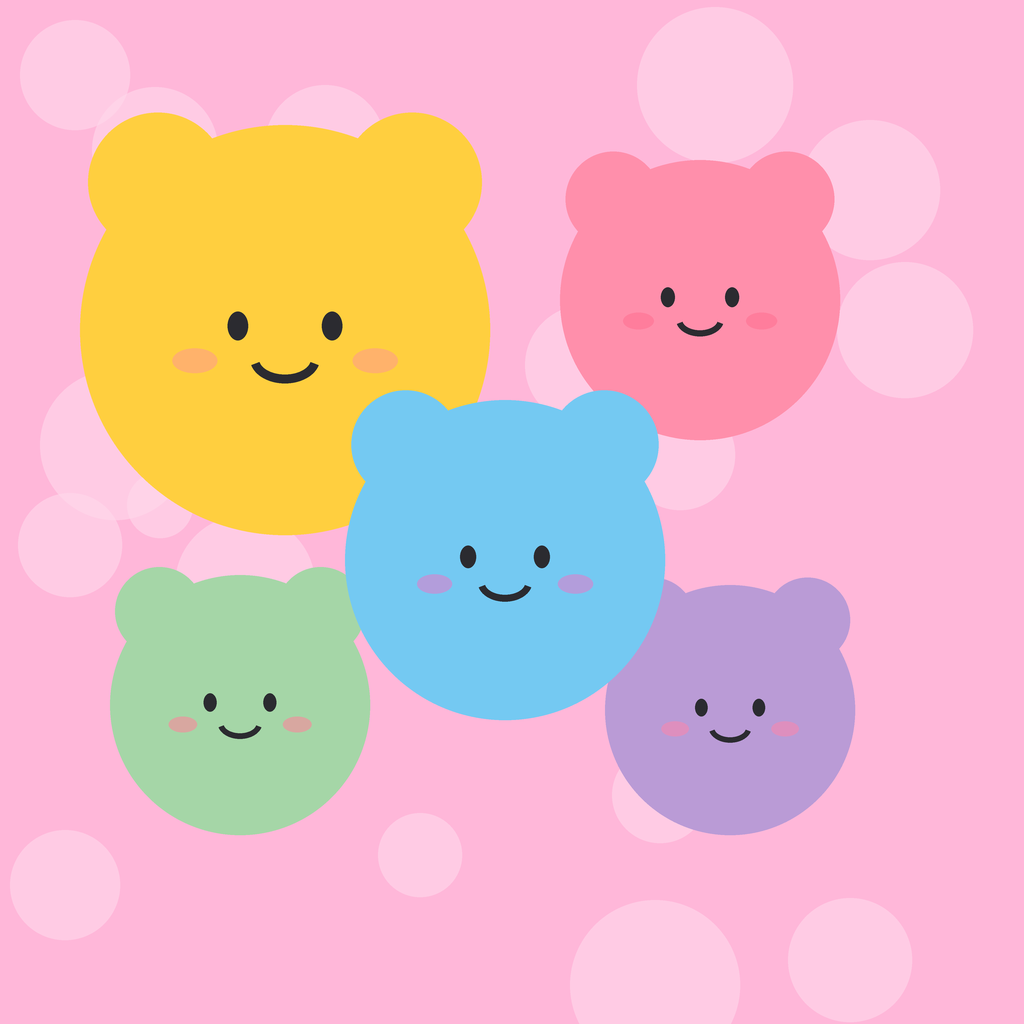
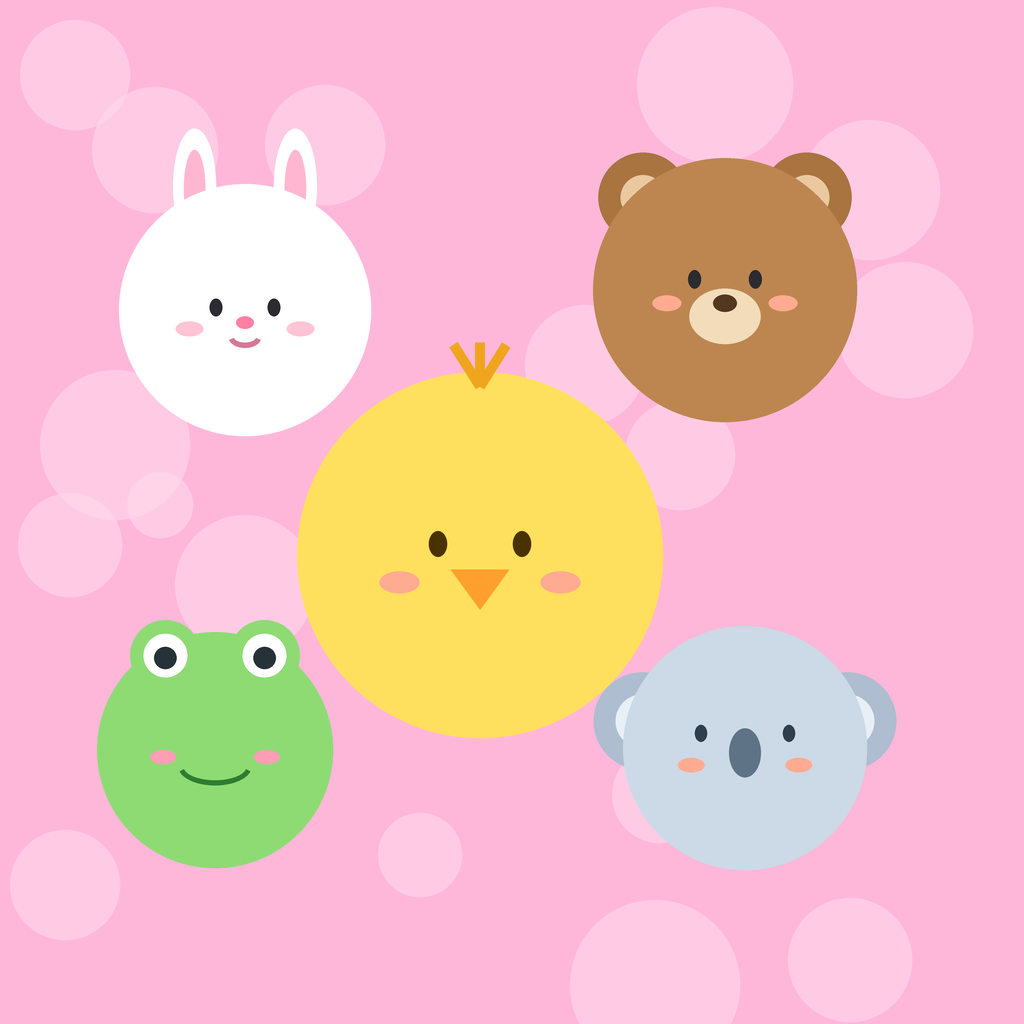
Add moco Pi investigation report (HTML + download files)

diff --git a/index.html b/index.html
@@ -131,7 +131,7 @@
 </head>
 <body>
 <div class="screen on" id="titleScreen">
-  <img class="icon" src="app-icon-1024.png?v=10" alt="">
+  <img class="icon" src="app-icon-1024.png?v=14" alt="">
   <h1>つむP</h1>
   <p class="sub">なぞってつなげて消すパズル</p>
   <div class="panel">
@@ -190,7 +190,7 @@
 <button id="bgmBtn" title="BGM">🎵</button>
 <div id="verTag"></div>
 <script>
-  document.getElementById('verTag').textContent = 'Tsum v13';
+  document.getElementById('verTag').textContent = 'Tsum v14';
   // ---------------- player identity (browser build: local id) ----------------
   let PLAYER = null;
   try {
@@ -375,11 +375,11 @@
   const COLS = 9, ROWS = 11, GAME_SEC = 60;
   const BOMB = 5, FEVER_NEED = 25, FEVER_MS = 10000, BOMB_CHAIN = 7;
   const TYPES = [
-    { c: ['#fff3b0', '#ffd93b'], svg: '<svg viewBox="0 0 100 100"><circle cx="27" cy="27" r="11" fill="#ffd93b"/><circle cx="73" cy="27" r="11" fill="#ffd93b"/><circle cx="50" cy="58" r="32" fill="#ffd93b"/><circle cx="38" cy="54" r="3.6" fill="#33302e"/><circle cx="62" cy="54" r="3.6" fill="#33302e"/><circle cx="39.3" cy="52.7" r="1.3" fill="#ffffff"/><circle cx="63.3" cy="52.7" r="1.3" fill="#ffffff"/><path d="M43 64 Q50 70 57 64" stroke="#33302e" stroke-width="2.4" fill="none" stroke-linecap="round"/><ellipse cx="28" cy="63" rx="6" ry="3.6" fill="#ff8fab" opacity=".65"/><ellipse cx="72" cy="63" rx="6" ry="3.6" fill="#ff8fab" opacity=".65"/></svg>' },
-    { c: ['#ffe3ee', '#ff9ec4'], svg: '<svg viewBox="0 0 100 100"><circle cx="27" cy="27" r="11" fill="#ff9ec4"/><circle cx="73" cy="27" r="11" fill="#ff9ec4"/><circle cx="50" cy="58" r="32" fill="#ff9ec4"/><circle cx="38" cy="54" r="3.6" fill="#33302e"/><circle cx="62" cy="54" r="3.6" fill="#33302e"/><circle cx="39.3" cy="52.7" r="1.3" fill="#ffffff"/><circle cx="63.3" cy="52.7" r="1.3" fill="#ffffff"/><path d="M43 64 Q50 70 57 64" stroke="#33302e" stroke-width="2.4" fill="none" stroke-linecap="round"/><ellipse cx="28" cy="63" rx="6" ry="3.6" fill="#ff8fab" opacity=".65"/><ellipse cx="72" cy="63" rx="6" ry="3.6" fill="#ff8fab" opacity=".65"/></svg>' },
-    { c: ['#dcefff', '#6ec3f5'], svg: '<svg viewBox="0 0 100 100"><circle cx="27" cy="27" r="11" fill="#6ec3f5"/><circle cx="73" cy="27" r="11" fill="#6ec3f5"/><circle cx="50" cy="58" r="32" fill="#6ec3f5"/><circle cx="38" cy="54" r="3.6" fill="#33302e"/><circle cx="62" cy="54" r="3.6" fill="#33302e"/><circle cx="39.3" cy="52.7" r="1.3" fill="#ffffff"/><circle cx="63.3" cy="52.7" r="1.3" fill="#ffffff"/><path d="M43 64 Q50 70 57 64" stroke="#33302e" stroke-width="2.4" fill="none" stroke-linecap="round"/><ellipse cx="28" cy="63" rx="6" ry="3.6" fill="#ff8fab" opacity=".65"/><ellipse cx="72" cy="63" rx="6" ry="3.6" fill="#ff8fab" opacity=".65"/></svg>' },
-    { c: ['#e6f9dc', '#8edb74'], svg: '<svg viewBox="0 0 100 100"><circle cx="27" cy="27" r="11" fill="#8edb74"/><circle cx="73" cy="27" r="11" fill="#8edb74"/><circle cx="50" cy="58" r="32" fill="#8edb74"/><circle cx="38" cy="54" r="3.6" fill="#33302e"/><circle cx="62" cy="54" r="3.6" fill="#33302e"/><circle cx="39.3" cy="52.7" r="1.3" fill="#ffffff"/><circle cx="63.3" cy="52.7" r="1.3" fill="#ffffff"/><path d="M43 64 Q50 70 57 64" stroke="#33302e" stroke-width="2.4" fill="none" stroke-linecap="round"/><ellipse cx="28" cy="63" rx="6" ry="3.6" fill="#ff8fab" opacity=".65"/><ellipse cx="72" cy="63" rx="6" ry="3.6" fill="#ff8fab" opacity=".65"/></svg>' },
-    { c: ['#eee7fd', '#b79ced'], svg: '<svg viewBox="0 0 100 100"><circle cx="27" cy="27" r="11" fill="#b79ced"/><circle cx="73" cy="27" r="11" fill="#b79ced"/><circle cx="50" cy="58" r="32" fill="#b79ced"/><circle cx="38" cy="54" r="3.6" fill="#33302e"/><circle cx="62" cy="54" r="3.6" fill="#33302e"/><circle cx="39.3" cy="52.7" r="1.3" fill="#ffffff"/><circle cx="63.3" cy="52.7" r="1.3" fill="#ffffff"/><path d="M43 64 Q50 70 57 64" stroke="#33302e" stroke-width="2.4" fill="none" stroke-linecap="round"/><ellipse cx="28" cy="63" rx="6" ry="3.6" fill="#ff8fab" opacity=".65"/><ellipse cx="72" cy="63" rx="6" ry="3.6" fill="#ff8fab" opacity=".65"/></svg>' },
+    { c: ['#ffe3ee', '#ff9ec4'], svg: '<svg viewBox="0 0 100 100"><ellipse cx="31" cy="20" rx="9" ry="19" fill="#ffffff" transform="rotate(-11 31 20)"/><ellipse cx="69" cy="20" rx="9" ry="19" fill="#ffffff" transform="rotate(11 69 20)"/><ellipse cx="31" cy="22" rx="4.4" ry="12" fill="#ffb7d1" transform="rotate(-11 31 22)"/><ellipse cx="69" cy="22" rx="4.4" ry="12" fill="#ffb7d1" transform="rotate(11 69 22)"/><circle cx="50" cy="63" r="29" fill="#ffffff"/><circle cx="39" cy="59" r="3.4" fill="#3a2b33"/><circle cx="61" cy="59" r="3.4" fill="#3a2b33"/><circle cx="40.2" cy="57.8" r="1.2" fill="#ffffff"/><circle cx="62.2" cy="57.8" r="1.2" fill="#ffffff"/><ellipse cx="50" cy="66" rx="4" ry="2.8" fill="#ff7fa5"/><path d="M50 69 q-1 4 -6 4 M50 69 q1 4 6 4" stroke="#d77a97" stroke-width="1.8" fill="none" stroke-linecap="round"/><ellipse cx="30" cy="68" rx="5.6" ry="3.4" fill="#ffc4d6" opacity=".8"/><ellipse cx="70" cy="68" rx="5.6" ry="3.4" fill="#ffc4d6" opacity=".8"/></svg>' },
+    { c: ['#ffedbe', '#ffc94d'], svg: '<svg viewBox="0 0 100 100"><circle cx="25" cy="28" r="11" fill="#a9743f"/><circle cx="75" cy="28" r="11" fill="#a9743f"/><circle cx="25" cy="28" r="5.4" fill="#eac9a0"/><circle cx="75" cy="28" r="5.4" fill="#eac9a0"/><circle cx="50" cy="57" r="32" fill="#bd8650"/><circle cx="38" cy="53" r="3.4" fill="#33241a"/><circle cx="62" cy="53" r="3.4" fill="#33241a"/><circle cx="39.2" cy="51.8" r="1.2" fill="#ffffff"/><circle cx="63.2" cy="51.8" r="1.2" fill="#ffffff"/><ellipse cx="50" cy="67" rx="13" ry="10" fill="#f2dcba"/><ellipse cx="50" cy="62" rx="5.2" ry="3.8" fill="#54371f"/><path d="M50 66 v3 M50 69 q-4 4 -8 2 M50 69 q4 4 8 2" stroke="#54371f" stroke-width="2" fill="none" stroke-linecap="round"/><ellipse cx="29" cy="64" rx="5.6" ry="3.4" fill="#ffab91" opacity=".7"/><ellipse cx="71" cy="64" rx="5.6" ry="3.4" fill="#ffab91" opacity=".7"/></svg>' },
+    { c: ['#dcf7c9', '#8edb74'], svg: '<svg viewBox="0 0 100 100"><circle cx="50" cy="58" r="32" fill="#8edb74"/><circle cx="29" cy="33" r="10.5" fill="#8edb74"/><circle cx="71" cy="33" r="10.5" fill="#8edb74"/><circle cx="29" cy="33" r="6.8" fill="#ffffff"/><circle cx="71" cy="33" r="6.8" fill="#ffffff"/><circle cx="29" cy="34" r="3.4" fill="#263238"/><circle cx="71" cy="34" r="3.4" fill="#263238"/><path d="M31 63 Q50 76 69 63" stroke="#2e7d32" stroke-width="2.6" fill="none" stroke-linecap="round"/><ellipse cx="28" cy="62" rx="6" ry="3.6" fill="#ff9eb5" opacity=".8"/><ellipse cx="72" cy="62" rx="6" ry="3.6" fill="#ff9eb5" opacity=".8"/></svg>' },
+    { c: ['#fff6bf', '#ffd43b'], svg: '<svg viewBox="0 0 100 100"><circle cx="50" cy="58" r="31" fill="#ffdf5e"/><path d="M50 28 q-4 -9 -11 -10 M50 28 q0 -10 5 -13 M50 28 q5 -8 11 -9" stroke="#f0a51f" stroke-width="3.4" fill="none" stroke-linecap="round"/><circle cx="38" cy="54" r="3.6" fill="#4a3200"/><circle cx="62" cy="54" r="3.6" fill="#4a3200"/><circle cx="39.3" cy="52.7" r="1.3" fill="#ffffff"/><circle cx="63.3" cy="52.7" r="1.3" fill="#ffffff"/><path d="M41 63 L59 63 L50 73 Z" fill="#ff9f2e"/><ellipse cx="29" cy="65" rx="6" ry="3.6" fill="#ffab91" opacity=".85"/><ellipse cx="71" cy="65" rx="6" ry="3.6" fill="#ffab91" opacity=".85"/></svg>' },
+    { c: ['#dcefff', '#9ec8f5'], svg: '<svg viewBox="0 0 100 100"><circle cx="19" cy="44" r="13" fill="#aebdcf"/><circle cx="81" cy="44" r="13" fill="#aebdcf"/><circle cx="19" cy="44" r="7" fill="#e8eff7"/><circle cx="81" cy="44" r="7" fill="#e8eff7"/><circle cx="50" cy="57" r="31" fill="#ccd9e6"/><circle cx="36" cy="51" r="3.3" fill="#2f3e4d"/><circle cx="64" cy="51" r="3.3" fill="#2f3e4d"/><circle cx="37.2" cy="49.8" r="1.2" fill="#ffffff"/><circle cx="65.2" cy="49.8" r="1.2" fill="#ffffff"/><ellipse cx="50" cy="60" rx="7" ry="10.5" fill="#5f7386"/><ellipse cx="29" cy="65" rx="5.6" ry="3.4" fill="#ffab91" opacity=".7"/><ellipse cx="71" cy="65" rx="5.6" ry="3.4" fill="#ffab91" opacity=".7"/></svg>' },
     { e: '★', c: ['#e8fdff', '#38b6c9'] }
   ];
   const field = document.getElementById('field');
